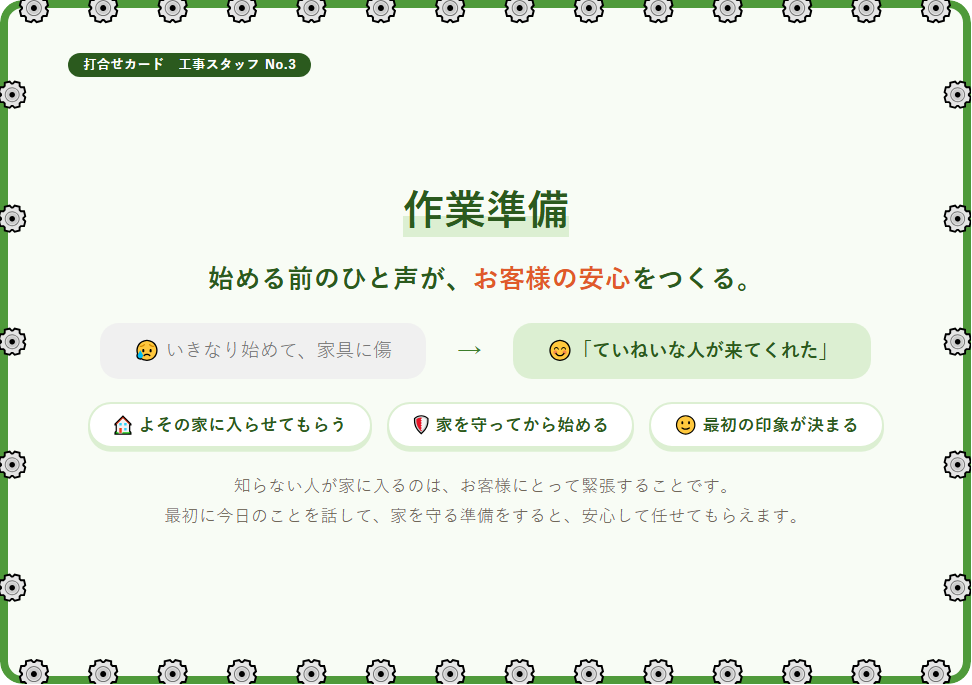
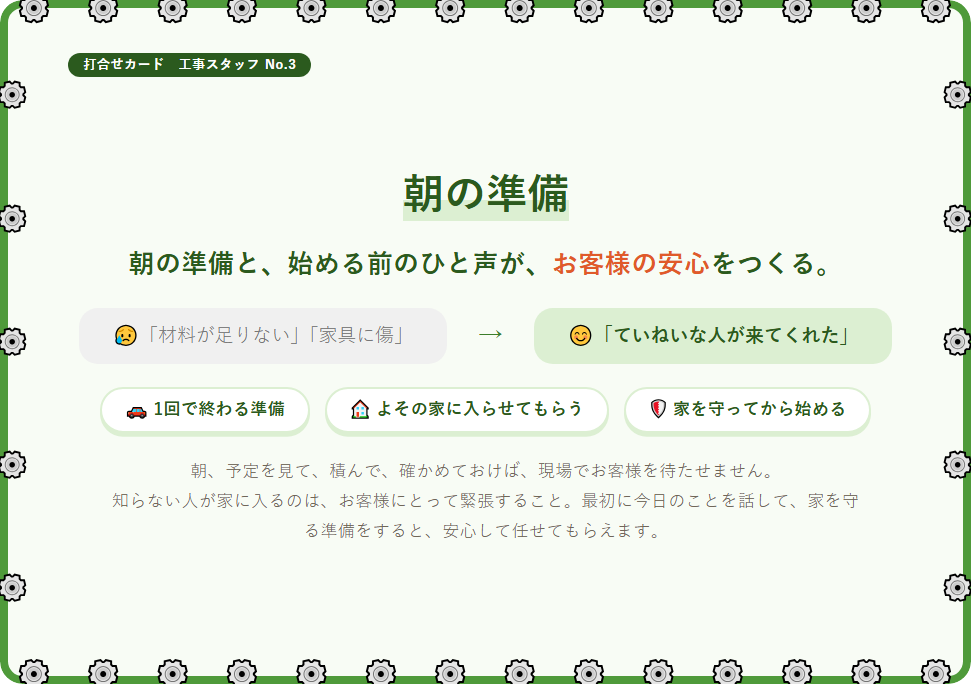
工事カードNo.3を「朝の準備」に
Claude-Session: https://claude.ai/code/session_01SZNrdcyrN7aKEt1o21LvYk

Changed region(s): [[0.0926, 0.2453, 0.9259, 0.7971], [0.1235, 0.4599, 0.4012, 0.5212], [0.8333, 0.7051, 0.8951, 0.7358]]

diff --git a/card-koji-3.html b/card-koji-3.html
@@ -3,10 +3,10 @@
 <head>
 <meta charset="UTF-8">
 <meta name="viewport" content="width=1010">
-<title>打合せカード3 作業準備｜ヤハタ電機商会</title>
+<title>打合せカード3 朝の準備｜ヤハタ電機商会</title>
 <meta property="og:type" content="website">
-<meta property="og:title" content="工事スタッフカード　作業準備">
-<meta property="og:description" content="始める前のひと声が、お客様の安心をつくる。">
+<meta property="og:title" content="工事スタッフカード　朝の準備">
+<meta property="og:description" content="朝の準備と、始める前のひと声が、お客様の安心をつくる。">
 <meta property="og:image" content="https://yahatadennki.github.io/report/img/card-koji-3.png">
 <meta property="og:url" content="https://yahatadennki.github.io/report/card-koji-3.html">
 <meta name="twitter:card" content="summary_large_image">
@@ -100,11 +100,11 @@
 
   <div class="top"><span class="no">打合せカード　工事スタッフ No.3</span><span></span></div>
   <div class="front">
-    <h1><em>作業準備</em></h1>
-    <p class="msg">始める前のひと声が、<b>お客様の安心</b>をつくる。</p>
-    <div class="vs"><div class="ng">😥 いきなり始めて、家具に傷</div><div class="ar">→</div><div class="ok">😊「ていねいな人が来てくれた」</div></div>
-    <div class="chips"><span>🏠 よその家に入らせてもらう</span><span>🛡 家を守ってから始める</span><span>🙂 最初の印象が決まる</span></div>
-    <p class="one">知らない人が家に入るのは、お客様にとって緊張することです。<br>最初に今日のことを話して、家を守る準備をすると、安心して任せてもらえます。</p>
+    <h1><em>朝の準備</em></h1>
+    <p class="msg">朝の準備と、始める前のひと声が、<b>お客様の安心</b>をつくる。</p>
+    <div class="vs"><div class="ng">😥「材料が足りない」「家具に傷」</div><div class="ar">→</div><div class="ok">😊「ていねいな人が来てくれた」</div></div>
+    <div class="chips"><span>🚗 1回で終わる準備</span><span>🏠 よその家に入らせてもらう</span><span>🛡 家を守ってから始める</span></div>
+    <p class="one">朝、予定を見て、積んで、確かめておけば、現場でお客様を待たせません。<br>知らない人が家に入るのは、お客様にとって緊張すること。最初に今日のことを話して、家を守る準備をすると、安心して任せてもらえます。</p>
   </div>
 </div>
 
@@ -115,11 +115,11 @@
   <div class="col-f l"><span>⚙</span><span>⚙</span><span>⚙</span><span>⚙</span><span>⚙</span></div>
   <div class="col-f r"><span>⚙</span><span>⚙</span><span>⚙</span><span>⚙</span><span>⚙</span></div>
 
-  <div class="top"><span class="no">打合せカード　工事スタッフ No.3　作業準備</span><span></span></div>
+  <div class="top"><span class="no">打合せカード　工事スタッフ No.3　朝の準備</span><span></span></div>
   <div class="back">
     <div class="box">
       <h2>どう始めたら、安心してもらえる？</h2>
-      <div class="roles"><div class="role" style="--rc:#d9ebfa;--rk:#164a7a"><span class="e">🗣</span><div><div class="n">先に話す</div><div class="x">今日やること、どのくらいかかるか、どこを通るか</div></div></div><div class="role" style="--rc:#dcefd2;--rk:#2b5a1e"><span class="e">🛡</span><div><div class="n">家を守ってから始める</div><div class="x">床・角・家具を養生。「先に養生しますね」とひと声</div></div></div><div class="role" style="--rc:#fff1c2;--rk:#7a4d10"><span class="e">🚗</span><div><div class="n">段取りを決めてから入る</div><div class="x">何度も出入りしない。玄関の開け閉めもお客様の負担</div></div></div></div>
+      <div class="roles"><div class="role" style="--rc:#d9ebfa;--rk:#164a7a"><span class="e">🚗</span><div><div class="n">朝、積んで確かめる</div><div class="x">予定・持ち物・付属品。出直しでお客様を待たせない</div></div></div><div class="role" style="--rc:#dcefd2;--rk:#2b5a1e"><span class="e">🗣</span><div><div class="n">先に話す</div><div class="x">今日やること、どのくらいかかるか、どこを通るか</div></div></div><div class="role" style="--rc:#fff1c2;--rk:#7a4d10"><span class="e">🛡</span><div><div class="n">家を守ってから始める</div><div class="x">床・角・家具を養生。「先に養生しますね」とひと声</div></div></div></div>
 
     </div>
     <div class="box">

diff --git a/tools/cards-data.js b/tools/cards-data.js
@@ -408,15 +408,15 @@ module.exports = [
         memo:['📘 やり方は「片付け・工具のメンテナンス」ガイドへ','材料の片付けと、補充・発注。'],
         vals:['✅ 減ったら、その日に補充して終わり','🚗 車の中は、いつもそろっている','📝 倉庫になければ注文書'] }
 },
-{ no:3, who:'koji', title:'作業準備',
-  why:{ msg:'始める前のひと声が、<b>お客様の安心</b>をつくる。',
-        ng:'😥 いきなり始めて、家具に傷', ok:'😊「ていねいな人が来てくれた」',
-        chips:['🏠 よその家に入らせてもらう','🛡 家を守ってから始める','🙂 最初の印象が決まる'],
-        one:'知らない人が家に入るのは、お客様にとって緊張することです。<br>最初に今日のことを話して、家を守る準備をすると、安心して任せてもらえます。' },
+{ no:3, who:'koji', title:'朝の準備',
+  why:{ msg:'朝の準備と、始める前のひと声が、<b>お客様の安心</b>をつくる。',
+        ng:'😥「材料が足りない」「家具に傷」', ok:'😊「ていねいな人が来てくれた」',
+        chips:['🚗 1回で終わる準備','🏠 よその家に入らせてもらう','🛡 家を守ってから始める'],
+        one:'朝、予定を見て、積んで、確かめておけば、現場でお客様を待たせません。<br>知らない人が家に入るのは、お客様にとって緊張すること。最初に今日のことを話して、家を守る準備をすると、安心して任せてもらえます。' },
   how:{ h:'どう始めたら、安心してもらえる？',
-        roles:[ {ic:'🗣',n:'先に話す',t:'今日やること、どのくらいかかるか、どこを通るか',bg:'#d9ebfa',k:'#164a7a'},
-                {ic:'🛡',n:'家を守ってから始める',t:'床・角・家具を養生。「先に養生しますね」とひと声',bg:'#dcefd2',k:'#2b5a1e'},
-                {ic:'🚗',n:'段取りを決めてから入る',t:'何度も出入りしない。玄関の開け閉めもお客様の負担',bg:'#fff1c2',k:'#7a4d10'} ] },
+        roles:[ {ic:'🚗',n:'朝、積んで確かめる',t:'予定・持ち物・付属品。出直しでお客様を待たせない',bg:'#d9ebfa',k:'#164a7a'},
+                {ic:'🗣',n:'先に話す',t:'今日やること、どのくらいかかるか、どこを通るか',bg:'#dcefd2',k:'#2b5a1e'},
+                {ic:'🛡',n:'家を守ってから始める',t:'床・角・家具を養生。「先に養生しますね」とひと声',bg:'#fff1c2',k:'#7a4d10'} ] },
   what:{ h:'することは',
         memo:['📘 やり方は「朝の準備」ガイドと、各工事の手順書の準備編へ','確かめること・持ち物・現場に着いたら。'],
         vals:['💬 始める前に、ひと声','📦 何度も車に取りに戻らない','✨ 終わったら、来たときより、きれいに'] }

diff --git a/manual.html b/manual.html
@@ -830,7 +830,7 @@
   <!-- cards:koji -->
   <div class="pchips">
     <p class="pchips__t">🃏 打合せカード</p>
-    <div class="pchips__row"><span class="pchips__h">⚙ 工事</span><a href="card-koji-1.html">片付け　工具編</a><a href="card-koji-2.html">片付け　材料編</a><a href="card-koji-3.html">作業準備</a><a href="card-koji-5.html">写真の撮り方</a><a href="card-koji-6.html">トワレ取付</a><a href="card-koji-7.html">エアコン取付</a><a href="card-koji-8.html">コンセント・スイッチ交換</a><a href="card-koji-9.html">照明取付</a><a href="card-koji-10.html">インターホン取付</a><a href="card-koji-11.html">換気扇取付</a><a href="card-koji-12.html">レンジフード取付</a><a href="card-koji-13.html">アラウーノ取付</a><a href="card-koji-14.html">トイレ工事</a><a href="card-koji-15.html">IH取付</a><a href="card-koji-16.html">エコキュート取付</a><a href="card-koji-17.html">配線・配管工事</a><a href="card-koji-18.html">分電盤交換</a><a href="card-koji-19.html">アンテナ工事</a></div>
+    <div class="pchips__row"><span class="pchips__h">⚙ 工事</span><a href="card-koji-1.html">片付け　工具編</a><a href="card-koji-2.html">片付け　材料編</a><a href="card-koji-3.html">朝の準備</a><a href="card-koji-5.html">写真の撮り方</a><a href="card-koji-6.html">トワレ取付</a><a href="card-koji-7.html">エアコン取付</a><a href="card-koji-8.html">コンセント・スイッチ交換</a><a href="card-koji-9.html">照明取付</a><a href="card-koji-10.html">インターホン取付</a><a href="card-koji-11.html">換気扇取付</a><a href="card-koji-12.html">レンジフード取付</a><a href="card-koji-13.html">アラウーノ取付</a><a href="card-koji-14.html">トイレ工事</a><a href="card-koji-15.html">IH取付</a><a href="card-koji-16.html">エコキュート取付</a><a href="card-koji-17.html">配線・配管工事</a><a href="card-koji-18.html">分電盤交換</a><a href="card-koji-19.html">アンテナ工事</a></div>
   </div>
   <!-- /cards:koji -->
 

diff --git a/junbi-manual.html b/junbi-manual.html
@@ -148,7 +148,7 @@
     </div>
     <div class="step">
       <div class="step__no"><span class="step__num">3</span><span class="step__title">家を守ってから始める</span></div>
-      <div class="one"><ul><li>床・角・家具を養生する。「先に養生しますね」とひと声。</li><li>道具と材料を、作業場所の近くにそろえる。</li><li>作業前の写真を撮ってから始める。</li></ul><p class="tip">💡 終わったら、来たときより、きれいに。</p><p class="cardlink">🃏 カードで確かめる：<a href="card-koji-3.html">作業準備</a><a href="card-koji-5.html">写真の撮り方</a></p></div>
+      <div class="one"><ul><li>床・角・家具を養生する。「先に養生しますね」とひと声。</li><li>道具と材料を、作業場所の近くにそろえる。</li><li>作業前の写真を撮ってから始める。</li></ul><p class="tip">💡 終わったら、来たときより、きれいに。</p><p class="cardlink">🃏 カードで確かめる：<a href="card-koji-3.html">朝の準備</a><a href="card-koji-5.html">写真の撮り方</a></p></div>
     </div>
   </div>
 

diff --git a/cards.html b/cards.html
@@ -56,7 +56,7 @@
     <div class="list">
       <a class="ci" href="card-koji-1.html"><span class="n">No.1</span><span class="t">片付け　工具編</span></a>
       <a class="ci" href="card-koji-2.html"><span class="n">No.2</span><span class="t">片付け　材料編</span></a>
-      <a class="ci" href="card-koji-3.html"><span class="n">No.3</span><span class="t">作業準備</span></a>
+      <a class="ci" href="card-koji-3.html"><span class="n">No.3</span><span class="t">朝の準備</span></a>
       <a class="ci" href="card-koji-4.html"><span class="n">No.4</span><span class="t">納品の手順</span></a>
       <a class="ci" href="card-koji-5.html"><span class="n">No.5</span><span class="t">写真の撮り方</span></a>
       <a class="ci" href="card-koji-6.html"><span class="n">No.6</span><span class="t">トワレ取付</span></a>

diff --git a/staff-koji.html b/staff-koji.html
@@ -46,7 +46,7 @@
       <a class="item" href="katazuke-manual.html"><span class="ic">🧰</span><span><b>片付け・工具のメンテナンス</b><span>片付け（毎日）と工具の手入れ（毎週・毎月）</span></span></a>
   </div>
   <div class="cbox"><span class="h">🃏 打合せカード</span>
-    <a href="card-koji-3.html">🎒 作業準備</a>
+    <a href="card-koji-3.html">🎒 朝の準備</a>
     <a href="card-koji-5.html">📷 写真の撮り方</a>
     <a href="card-koji-1.html">🧰 片付け 工具編</a>
     <a href="card-koji-2.html">📦 片付け 材料編</a>
